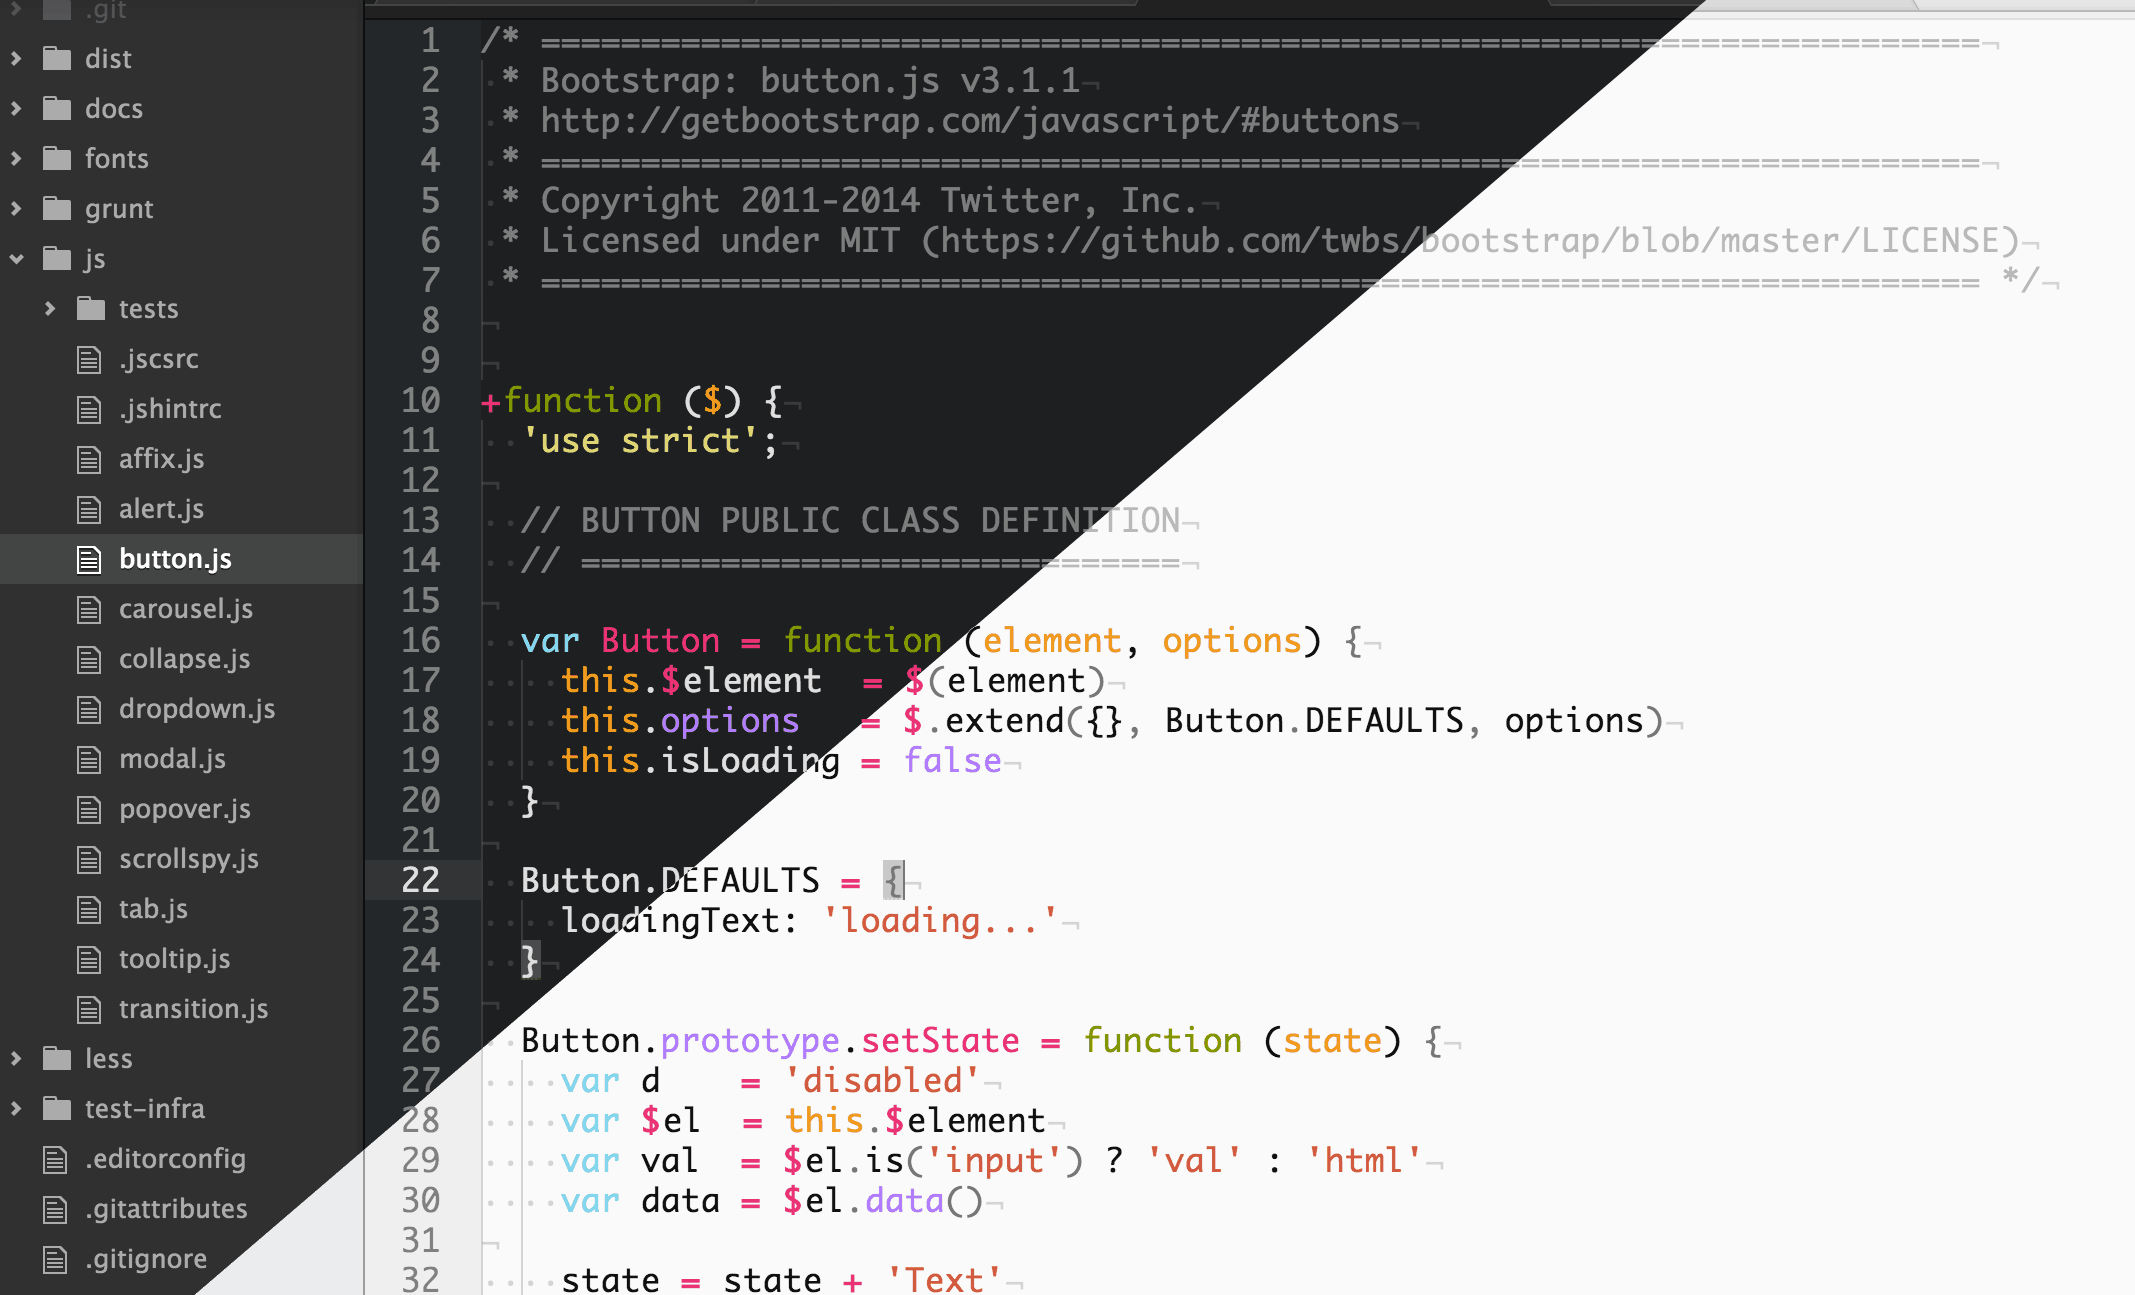
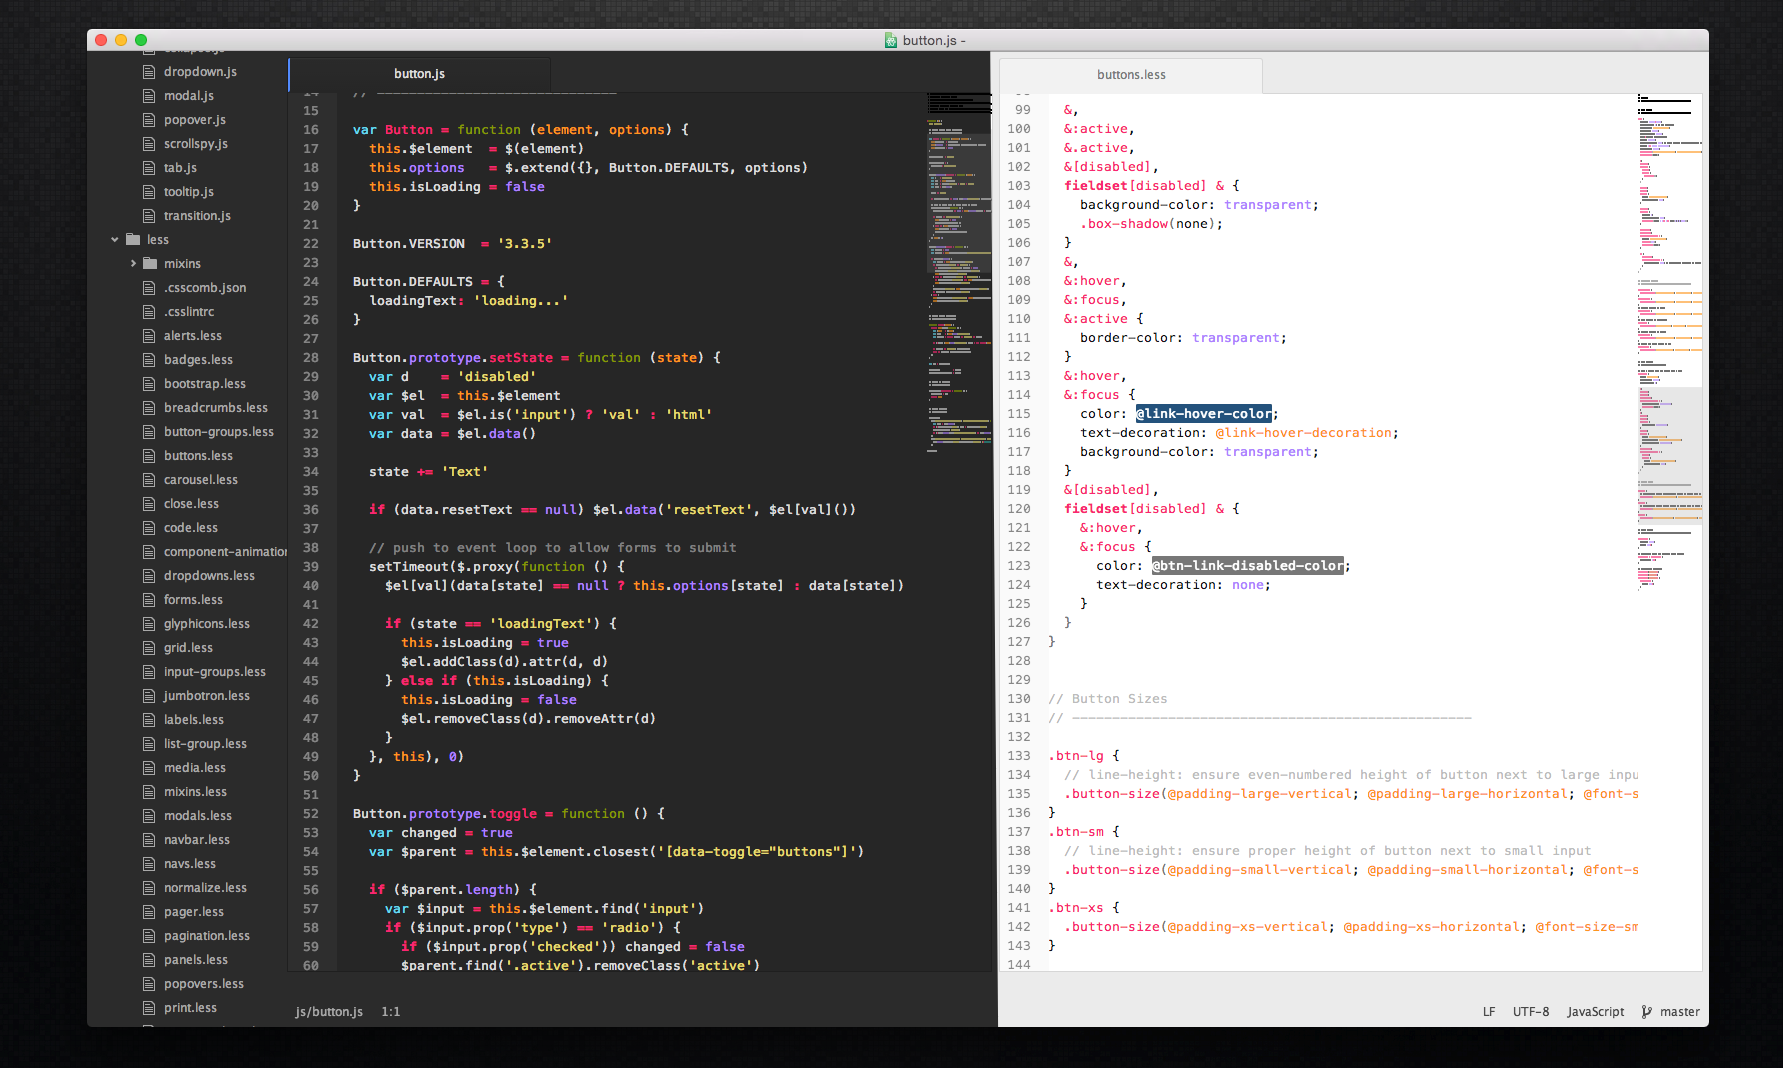
update screenshot

diff --git a/README.md b/README.md
@@ -18,6 +18,9 @@ apm install atom-monokai
 
 Changelog:
 
+* 0.9.4
+  * new screenshot
+
 * 0.9.3
   * fix markdown preview
 
